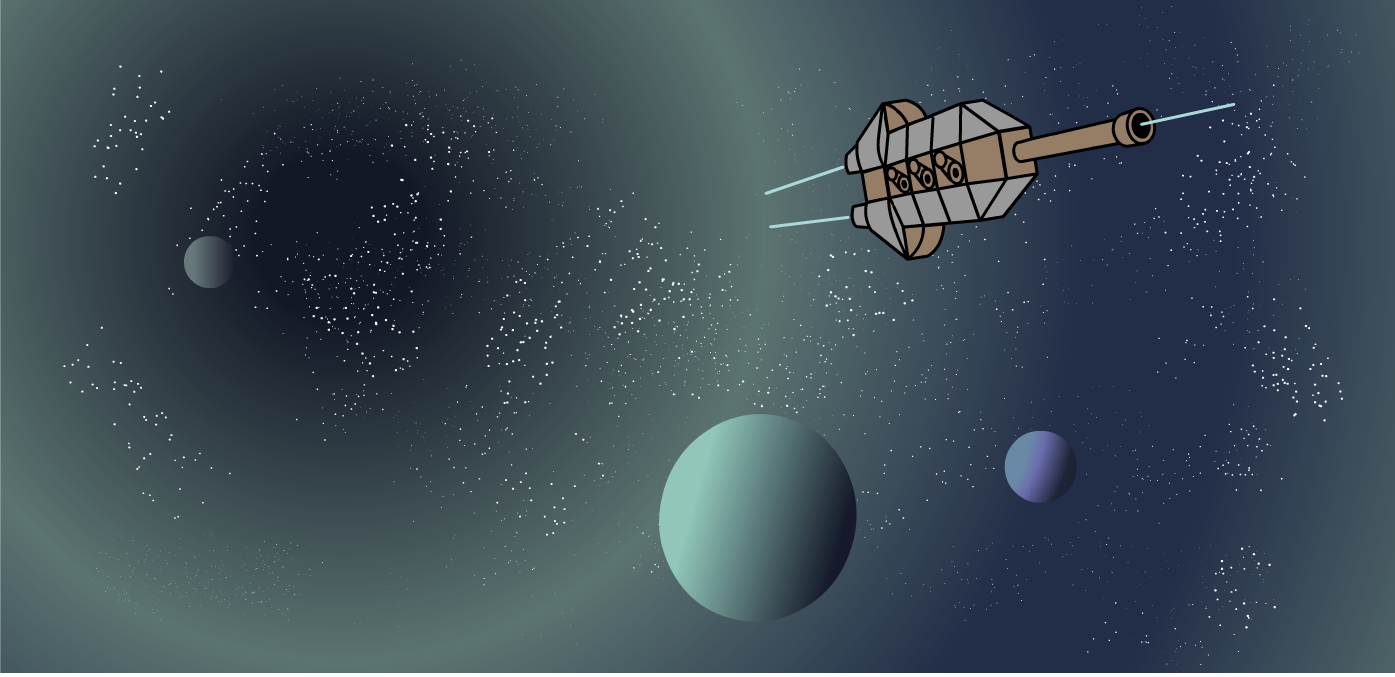
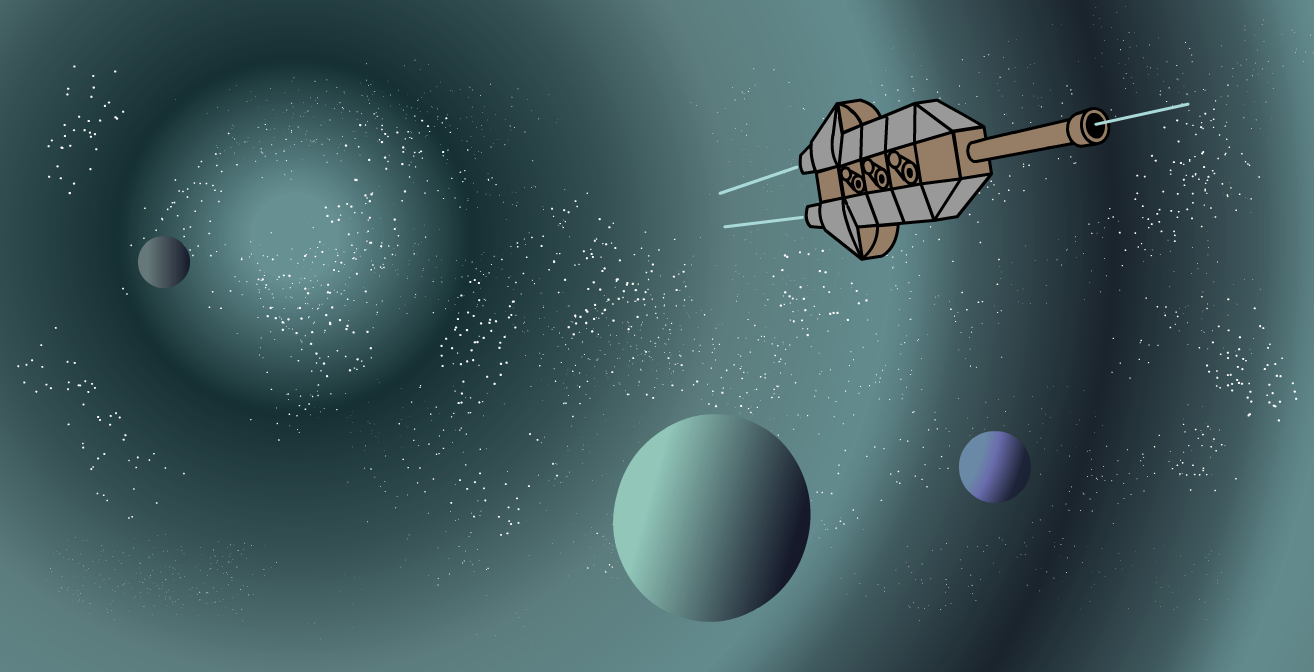
added new pictures

diff --git a/core/src/com/mygdx/game/Screens/GameScreen.java b/core/src/com/mygdx/game/Screens/GameScreen.java
@@ -497,7 +497,7 @@ public class GameScreen implements Screen, InputProcessor, ItemID, AssemblingScr
         }
 
 
-        drawSprite("background_red_space", 0, 0, camera.viewportWidth, camera.viewportHeight, 0);
+        drawSprite("background", 0, 0, camera.viewportWidth, camera.viewportHeight, 0);
 
         for (int i = 0; i < FIELD_WIDTH; i++) {
             for (int j = 0; j < FIELD_HEIGHT; j++) {
@@ -744,7 +744,7 @@ public class GameScreen implements Screen, InputProcessor, ItemID, AssemblingScr
                 drawSprite("pausescreen", camera.viewportWidth * 0.2f, camera.viewportHeight - camera.viewportWidth * 0.5f, camera.viewportWidth * 0.6f, camera.viewportWidth * 0.4f, 0);
                 break;
             case END:
-                drawSprite("end", camera.viewportWidth * 0.2f, camera.viewportHeight - camera.viewportWidth * 0.5f, camera.viewportWidth * 0.6f, camera.viewportWidth * 0.4f, 0);
+                drawSprite("player2won", camera.viewportWidth * 0.2f, camera.viewportHeight - camera.viewportWidth * 0.5f, camera.viewportWidth * 0.6f, camera.viewportWidth * 0.4f, 0);
                 break;
             case RUN:
                 drawSprite("pause", camera.viewportWidth * 0.47f, camera.viewportHeight - camera.viewportWidth * 0.06f, camera.viewportWidth * 0.06f, camera.viewportWidth * 0.06f, 0);
